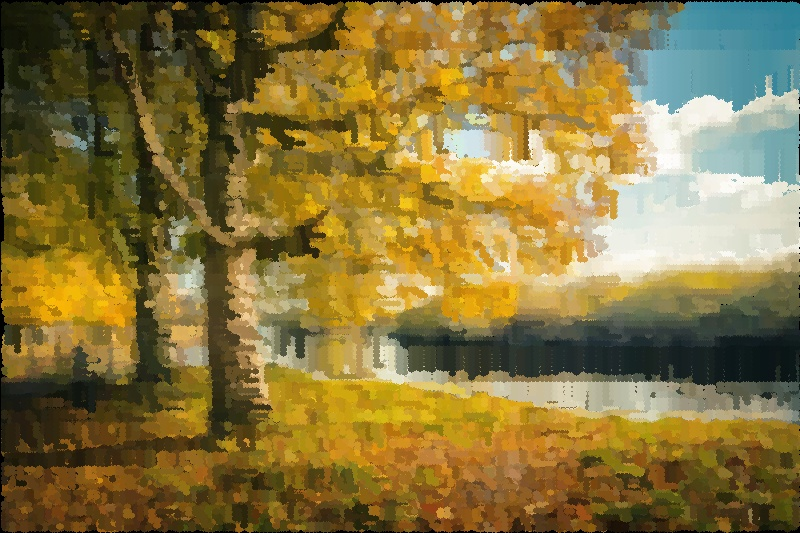
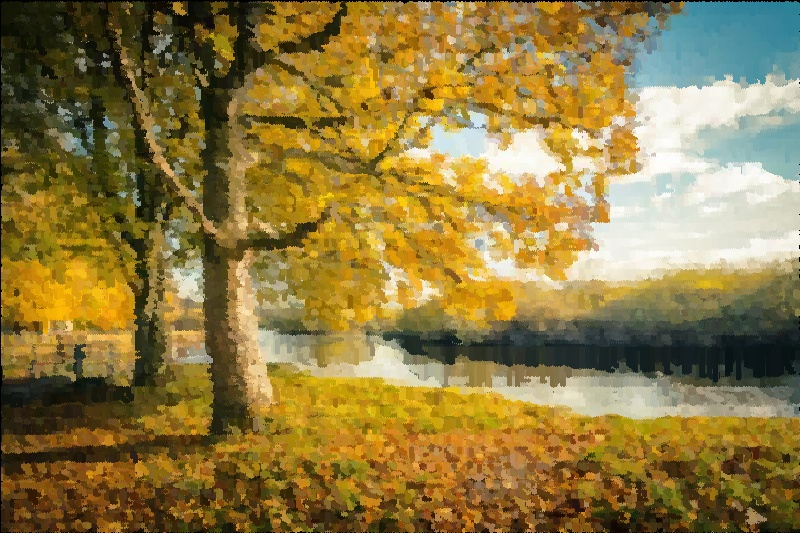
function grayscale

diff --git a/python/src/paintLayer.py b/python/src/paintLayer.py
@@ -9,7 +9,7 @@ from estimate import *
 
 
 def grayScale(image):
-    gray = np.rint(image[:, :, 0] * 0.125 + image[:, :, 1] * 0.75 + image[0, 0, 2] * 0.5).clip(0, 255)
+    gray = ((image[:, :, 0] * 114 + image[:, :, 1] * 587 + image[0, 0, 2] * 229 + 500) / 1000).astype(np.uint8).clip(0, 255)
     return gray
 
 
@@ -22,7 +22,7 @@ def paintLayer(canvas, refImage, brushSize, fg=1):
     # Calculate difference
     diffImage = difference(canvas, refImage)
     # Calculate gradient
-    gray = cv2.cvtColor(refImage, cv2.COLOR_BGR2GRAY)    
+    gray = grayScale(refImage)
     gradX = cv2.Sobel(gray, -1, 1, 0, ksize=3)
     gradY = cv2.Sobel(gray, -1, 0, 1, ksize=3)
     gradM = (abs(gradX) + abs(gradY)) * 0.25
